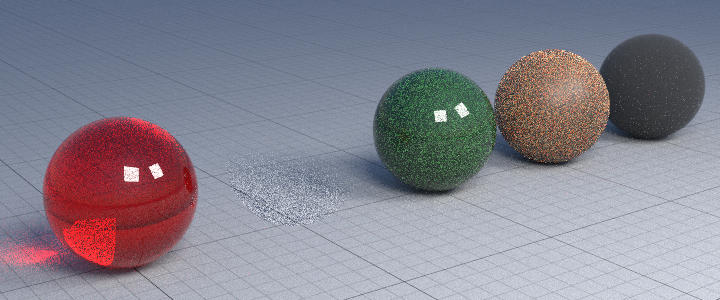
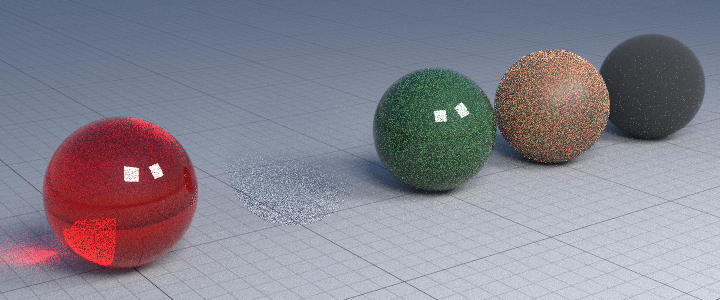
Volumes support PT2

diff --git a/libs/yocto_pathtrace/yocto_pathtrace.cpp b/libs/yocto_pathtrace/yocto_pathtrace.cpp
@@ -429,7 +429,7 @@ static brdf eval_brdf(const ptr::object* object, int element, const vec2f& uv,
 static bool is_delta(const ptr::brdf& brdf) { return !brdf.roughness; }
 
 /// -----------------------------------------------------------------------------
-// VOLUMETRIC PATH TRACING FUNCTIONS
+// IMPLEMENTATION FOR VOLUMETRIC PATH TRACING (VPT)
 // -----------------------------------------------------------------------------
 
 // check if we have a vpt volume // vpt
@@ -439,15 +439,15 @@ static bool has_vptvolume(const ptr::object* object) {
 
 // check if we have a vpt volume // vpt
 static bool check_bounds(vec3i vox_idx, vec3i bounds) {
-  return vox_idx.x <= bounds.x && vox_idx.y <= bounds.y && vox_idx.z <= bounds.z;
+  return vox_idx.x < bounds.x && vox_idx.y < bounds.y && vox_idx.z < bounds.z;
 }
-
 
 // vsdf
 struct vsdf {
   vec3f density    = {0, 0, 0};
   vec3f scatter    = {0, 0, 0};
   float anisotropy = 0;
+  bool  htvolume   = false;
 };
 
 // evaluate volume
@@ -471,17 +471,20 @@ static vsdf eval_vsdf(const ptr::object* object, int element, const vec2f& uv, c
 
   // If we are dealing with a real volume we look into its voxels // vpt
   if(has_vptvolume(object)) {
+    vsdf.htvolume = true;
     auto vol = object->volume;
 
     // Transformed intersection point
     auto tp  = transform_point(inverse(object->frame), pos);
     // Scaling factor
-    auto s   = 1000.0f;
+    auto s   = 6000.0f;
     // Voxels index
     auto vox_idx = vec3i{(int) abs(tp.x*s), (int) abs(tp.y*s), (int) abs(tp.z*s)};
-    
+
     //printf("TPS: %d, %d, %d\n", vox_idx.x, vox_idx.y, vox_idx.z);
     //printf("BDS: %d, %d, %d\n", vol->extent.x, vol->extent.y, vol->extent.z);
+    //printf("voxels %zu\n", object->volume->voxels.size());
+
     if(check_bounds(vox_idx, vol->extent)) {
       auto ds = img::lookup_volume(*vol, vox_idx, false);
       vsdf.density = vec3f{ds, ds, ds};
@@ -494,6 +497,39 @@ static vsdf eval_vsdf(const ptr::object* object, int element, const vec2f& uv, c
 
   return vsdf;
 }
+
+static std::pair<float, float> delta_tracking(vsdf& vsdf, float max_distance, float rn, float eps, ray3f& ray) {
+  /*
+    Implementatiom based on PBRT and Production Volume Rendering paper, pp. 13-15 
+    (https://graphics.pixar.com/library/ProductionVolumeRendering/paper.pdf)
+  */
+
+  auto o = ray.o;
+  auto d = ray.d;
+  
+  // Max density inside the volume
+  float sigma_bar = 1.0;
+  
+  // Sampled distance
+  auto t = -log(1.0 - rn) / sigma_bar;
+  
+  // Exiting if out of the volume
+  if(t > max_distance) {
+    return {max_distance, 1.0};
+  }
+
+  float sigma_t = vsdf.density[0];
+  float sigma_n = sigma_bar - sigma_t;
+  float check   = 1 - sigma_n / sigma_bar;
+
+  // Hitting a particle
+  if(eps < check) {
+    return {t, 1.0 - sigma_t / sigma_bar};
+  }
+
+  return {t, 1.0};
+}
+
 
 // check if we have a volume
 static bool has_volume(const ptr::object* object) {
@@ -1210,22 +1246,38 @@ static vec4f trace_path(const ptr::scene* scene, const ray3f& ray_,
       radiance += weight * eval_environment(scene, ray);
       break;
     }
-    //auto s = 1000.0f;
-    auto vol_pos = ray.o + ray.d * intersection.distance;
-    //printf("INTERPOINT: %f, %f, %f\n", vol_pos.x*s, vol_pos.y*s, vol_pos.z*s);
-
-    // handle transmission if inside a volume
+    
+    auto particle = false;
     auto in_volume = false;
-    if (!volume_stack.empty()) {
-      auto& vsdf     = volume_stack.back();
-      auto  distance = sample_transmittance(
-          vsdf.density, intersection.distance, rand1f(rng), rand1f(rng));
-      weight *= eval_transmittance(vsdf.density, distance) /
-                sample_transmittance_pdf(
-                    vsdf.density, distance, intersection.distance);
-      in_volume             = distance < intersection.distance;
-      intersection.distance = distance;
-    }
+    if(!volume_stack.empty()) {
+      auto &vsdf = volume_stack.back();
+      
+      // Check whether we are working with a volume
+      if(vsdf.htvolume) {
+        auto [dist, w] = delta_tracking(vsdf, intersection.distance, rand1f(rng), rand1f(rng), ray);
+
+        // Check if a particle has been hit
+        particle = w != 1.0;
+        if(particle) {
+          weight *= (1 - w) * vsdf.scatter / 0.35;
+        } else {
+          weight *= w; // w is 1 here, leaving it for correctness tests
+        }	
+
+        in_volume = dist < intersection.distance;
+        intersection.distance = dist;	
+      } else {
+        auto  distance = sample_transmittance(vsdf.density, intersection.distance, rand1f(rng), rand1f(rng));
+        weight *= eval_transmittance(vsdf.density, distance) /
+                  sample_transmittance_pdf(
+                      vsdf.density, distance, intersection.distance);
+        in_volume             = distance < intersection.distance;
+        intersection.distance = distance;
+      }
+    } 
+   
+
+    auto vol_pos = ray.o + ray.d * intersection.distance;
 
     // switch between surface and volume
     if (!in_volume) {
@@ -1283,30 +1335,28 @@ static vec4f trace_path(const ptr::scene* scene, const ray3f& ray_,
       // setup next iteration
       ray = {position, incoming};
     } else {
-      // prepare shading point
       auto  outgoing = -ray.d;
+      auto  incoming = zero3f;
       auto  position = ray.o + ray.d * intersection.distance;
       auto& vsdf     = volume_stack.back();
+      
+      if(!vsdf.htvolume || particle) {
+        // handle opacity
+        hit = true;
+      
+        // radiance += weight * eval_volemission(vsdf, outgoing);
 
-      // handle opacity
-      hit = true;
+        if (rand1f(rng) < 0.5f) {
+          incoming = sample_scattering(vsdf, outgoing, rand1f(rng), rand2f(rng));
+        } else {
+          incoming = sample_lights(
+              scene, position, rand1f(rng), rand1f(rng), rand2f(rng));
+        }
+        weight *= eval_scattering(vsdf, outgoing, incoming) /
+                  (0.5f * sample_scattering_pdf(vsdf, outgoing, incoming) +
+                      0.5f * sample_lights_pdf(scene, position, incoming));
+        }
 
-      // accumulate emission
-      // radiance += weight * eval_volemission(vsdf, outgoing);
-
-      // next direction
-      auto incoming = zero3f;
-      if (rand1f(rng) < 0.5f) {
-        incoming = sample_scattering(vsdf, outgoing, rand1f(rng), rand2f(rng));
-      } else {
-        incoming = sample_lights(
-            scene, position, rand1f(rng), rand1f(rng), rand2f(rng));
-      }
-      weight *= eval_scattering(vsdf, outgoing, incoming) /
-                (0.5f * sample_scattering_pdf(vsdf, outgoing, incoming) +
-                    0.5f * sample_lights_pdf(scene, position, incoming));
-
-      // setup next iteration
       ray = {position, incoming};
     }
 
@@ -1805,6 +1855,7 @@ inline void parallel_for(
 // Progressively compute an image by calling trace_samples multiple times.
 void trace_samples(ptr::state* state, const ptr::scene* scene,
     const ptr::camera* camera, const trace_params& params) {
+    
   if (params.noparallel) {
     for (auto j = 0; j < state->render.size().y; j++) {
       for (auto i = 0; i < state->render.size().x; i++) {

diff --git a/apps/yscenetrace/yscenetrace.cpp b/apps/yscenetrace/yscenetrace.cpp
@@ -156,7 +156,9 @@ void init_scene(ptr::scene* scene, sio::model* ioscene, ptr::camera*& camera,
               texture_map.at(ioobject->material->displacement_tex));
         }
         if(ioobject->volume) { // vpt
-          object->volume = ioobject->volume;
+          auto volcopy = new img::volume<float>;
+          *volcopy = *ioobject->volume;
+          object->volume = volcopy;
         }
         set_material(object, material_map.at(ioobject->material));
       }
@@ -173,7 +175,9 @@ void init_scene(ptr::scene* scene, sio::model* ioscene, ptr::camera*& camera,
             texture_map.at(ioobject->material->displacement_tex));
       }
       if(ioobject->volume) { // vpt
-          object->volume = ioobject->volume;
+        auto volcopy = new img::volume<float>;
+        *volcopy = *ioobject->volume;
+        object->volume = volcopy;
       }
       set_material(object, material_map.at(ioobject->material));
     }

diff --git a/libs/yocto/yocto_image.cpp b/libs/yocto/yocto_image.cpp
@@ -1302,7 +1302,6 @@ namespace yocto::image {
 // Lookup volume
 float lookup_volume(
     const volume<float>& vol, const vec3i& ijk, bool as_linear) {
-  printf("vec is %d, %d, %d", ijk[0], ijk[1], ijk[2]);
   return vol[ijk];
 }
 
